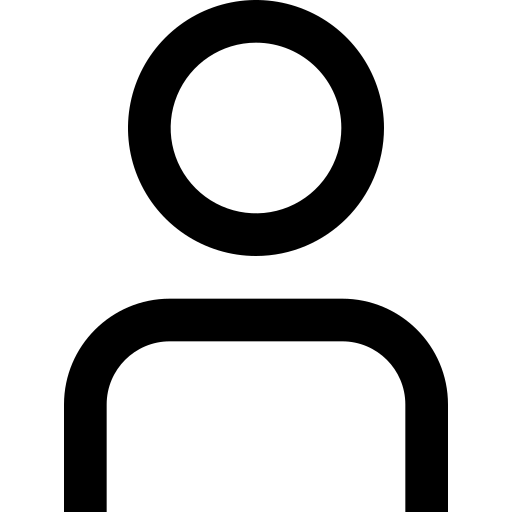
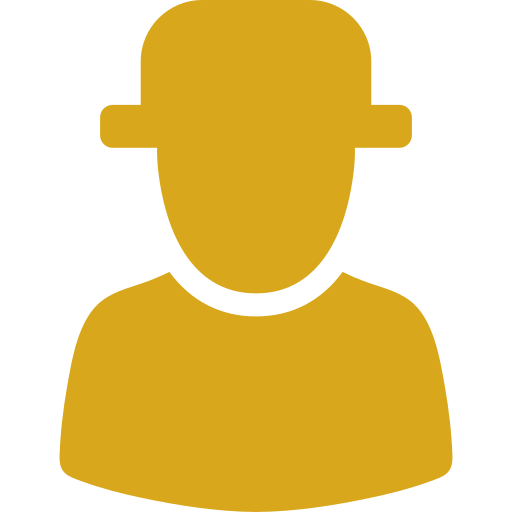
se agregan estilos a la barra de navegación e iconos de prueba

diff --git a/src/js/main.js b/src/js/main.js
@@ -17,7 +17,7 @@ let barra =
     const contenidoBarra =`
     <div>
       
-<nav class="navbar navbar-expand-lg navbar-dark bg-dark" >
+<nav class="navbar navbar-expand-lg <nav class="navbar navbar-light">
     <!--<a class="navbar-brand" href="./index.html">Navbar</a>-->
     <button class="navbar-toggler" type="button" data-toggle="collapse" data-target="#navbarSupportedContent" aria-controls="navbarSupportedContent" aria-expanded="false" aria-label="Toggle navigation">
         <span class="navbar-toggler-icon"></span>
@@ -40,7 +40,7 @@ let barra =
             </li>
             <li class="nav-item">                    
                 <a class="navbar-brand" href="${barra.logo}">
-                    <img src="./src/img/tutu_logo_sin_fondo.png" width="80" height="32" class="d-inline-block align-top" alt="Logo tutu_wix">
+                    <img src="./src/img/tutu_logo_sin_fondo.png" width="120" height="45" class="d-inline-block align-top" alt="Logo tutu_wix">
                 </a>
             </li>        
             <li class="nav-item">
@@ -57,11 +57,13 @@ let barra =
     </div>
     <div class="d-flex">
       <a href="./login.html">
-        <img src="./src/img/usuario.png" class="mr-2" width="30" height="30" src="./usuario.png" alt="Logo">
-      </a>                
+        <img src="./src/img/usuario.png" class="mr-2" width="30" height="30" src="./usuario.png" alt="Logo"> 
+      </a>   
+      <a href="./login.html">
+      <img src="./src/img/carrito-compras.png" class="mr-2" width="30" height="30" src="./carrito-compras.png" alt="Carrito"> 
+    </a>              
     </div>
 </nav>
-
 </div>
     `;
      

diff --git a/login.html b/login.html
@@ -8,6 +8,7 @@
     <link rel="stylesheet" href="https://cdn.jsdelivr.net/npm/bootstrap@4.6.1/dist/css/bootstrap.min.css" integrity="sha384-zCbKRCUGaJDkqS1kPbPd7TveP5iyJE0EjAuZQTgFLD2ylzuqKfdKlfG/eSrtxUkn" crossorigin="anonymous">
     <link rel="stylesheet" href="./src/css/login.css">
     <link rel="stylesheet" href="./src/css/login2.css">
+    <link rel="stylesheet" href="src/css/nav_bar.css">
 </head>
 <body>
     <!-- //se agrega la barra de navegacion -->

diff --git a/form.html b/form.html
@@ -7,6 +7,7 @@
     <title>Formulario</title>
     <link rel="stylesheet" href="https://cdn.jsdelivr.net/npm/bootstrap@4.6.1/dist/css/bootstrap.min.css" integrity="sha384-zCbKRCUGaJDkqS1kPbPd7TveP5iyJE0EjAuZQTgFLD2ylzuqKfdKlfG/eSrtxUkn" crossorigin="anonymous">
     <link rel="stylesheet" href="./src/css/contact_us.css">
+    <link rel="stylesheet" href="src/css/nav_bar.css">
 </head>
 <body>
 <!-- //se agrega la barra de navegacion -->

diff --git a/index.html b/index.html
@@ -7,6 +7,7 @@
     <link rel="stylesheet" href="https://cdn.jsdelivr.net/npm/bootstrap@4.6.1/dist/css/bootstrap.min.css" integrity="sha384-zCbKRCUGaJDkqS1kPbPd7TveP5iyJE0EjAuZQTgFLD2ylzuqKfdKlfG/eSrtxUkn" crossorigin="anonymous">
     <title>Inicio</title>
     <link rel="stylesheet" href="src/css/index.css">
+    <link rel="stylesheet" href="src/css/nav_bar.css">
 </head>
 <body>
   <!-- //se agrega la barra de navegacion -->

diff --git a/login2.html b/login2.html
@@ -8,6 +8,7 @@
     <link rel="stylesheet" href="https://cdn.jsdelivr.net/npm/bootstrap@4.6.1/dist/css/bootstrap.min.css" integrity="sha384-zCbKRCUGaJDkqS1kPbPd7TveP5iyJE0EjAuZQTgFLD2ylzuqKfdKlfG/eSrtxUkn" crossorigin="anonymous">
     <link rel="stylesheet" href="./src/css/login.css">
     <link rel="stylesheet" href="./src/css/login2.css">
+    <link rel="stylesheet" href="src/css/nav_bar.css">
 </head>
 <body>
 

diff --git a/aboutUs.html b/aboutUs.html
@@ -8,6 +8,7 @@
     <link rel="stylesheet" href="./style.css">
     <link rel="stylesheet" href="https://cdn.jsdelivr.net/npm/bootstrap@4.6.1/dist/css/bootstrap.min.css" integrity="sha384-zCbKRCUGaJDkqS1kPbPd7TveP5iyJE0EjAuZQTgFLD2ylzuqKfdKlfG/eSrtxUkn" crossorigin="anonymous">
     <link rel="stylesheet" href="./src/css/aboutUs.css">
+    <link rel="stylesheet" href="src/css/nav_bar.css">
 
 </head>
 <body>

diff --git a/contact_us.html b/contact_us.html
@@ -7,6 +7,7 @@
     <title>contactenos</title>
     <link rel="stylesheet" href="https://cdn.jsdelivr.net/npm/bootstrap@4.6.1/dist/css/bootstrap.min.css" integrity="sha384-zCbKRCUGaJDkqS1kPbPd7TveP5iyJE0EjAuZQTgFLD2ylzuqKfdKlfG/eSrtxUkn" crossorigin="anonymous">
     <link rel="stylesheet" href="./src/css/contact_us.css">
+    <link rel="stylesheet" href="src/css/nav_bar.css">
     
     
 </head>

diff --git a/form_admin.html b/form_admin.html
@@ -7,6 +7,7 @@
     <title>Document</title>
     <link rel="stylesheet" href="https://cdn.jsdelivr.net/npm/bootstrap@4.6.1/dist/css/bootstrap.min.css" integrity="sha384-zCbKRCUGaJDkqS1kPbPd7TveP5iyJE0EjAuZQTgFLD2ylzuqKfdKlfG/eSrtxUkn" crossorigin="anonymous">
     <link rel="stylesheet" href="./src/css/form_admin.css">
+    <link rel="stylesheet" href="src/css/nav_bar.css">
 </head>
 <body>
 

diff --git a/src/css/nav_bar.css b/src/css/nav_bar.css
@@ -1,0 +1,20 @@
+
+.navbar{
+
+    background-color:#003333;
+    font-family: 'Montserrat', sans-serif;
+}
+
+.nav-link{
+    position: relative;
+    color:white;
+    cursor: pointer;
+    font-size: 28px;
+    transition: all 450ms ease;
+    justify-content: space-around;
+    letter-spacing: 0.5;
+}
+
+.nav-link:hover{
+    color:coral
+}

diff --git a/list_of_products.html b/list_of_products.html
@@ -9,6 +9,7 @@
     <link rel="stylesheet" href="./src/css/contact_us.css">
     <link rel="stylesheet" href="./src/css/aboutUs.css">
     <link rel="stylesheet" href="./src/css/list_products.css">
+    <link rel="stylesheet" href="src/css/nav_bar.css">
 </head>
 <body>
 <!-- //se agrega la barra de navegacion -->
